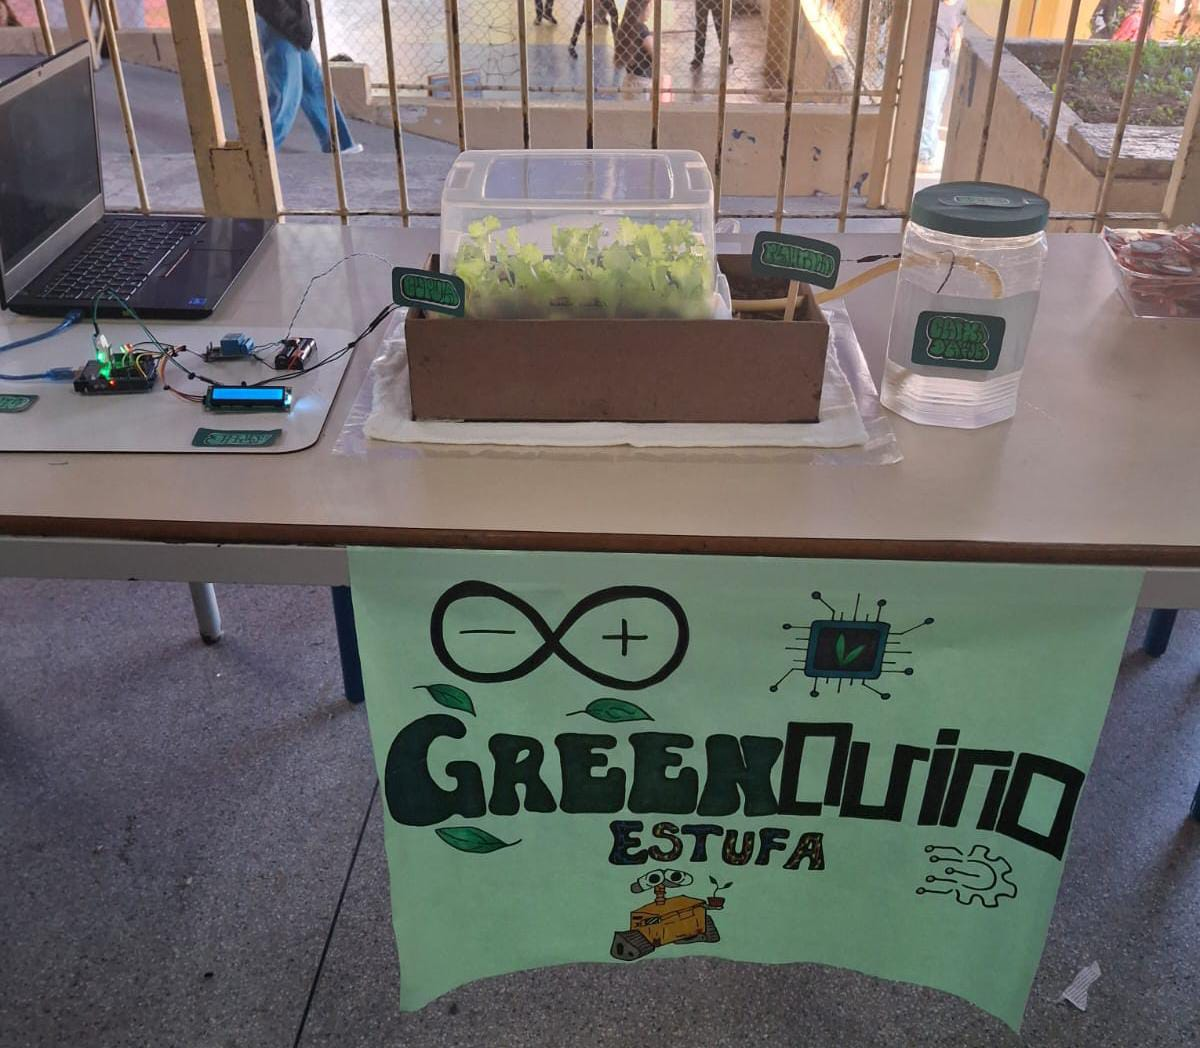
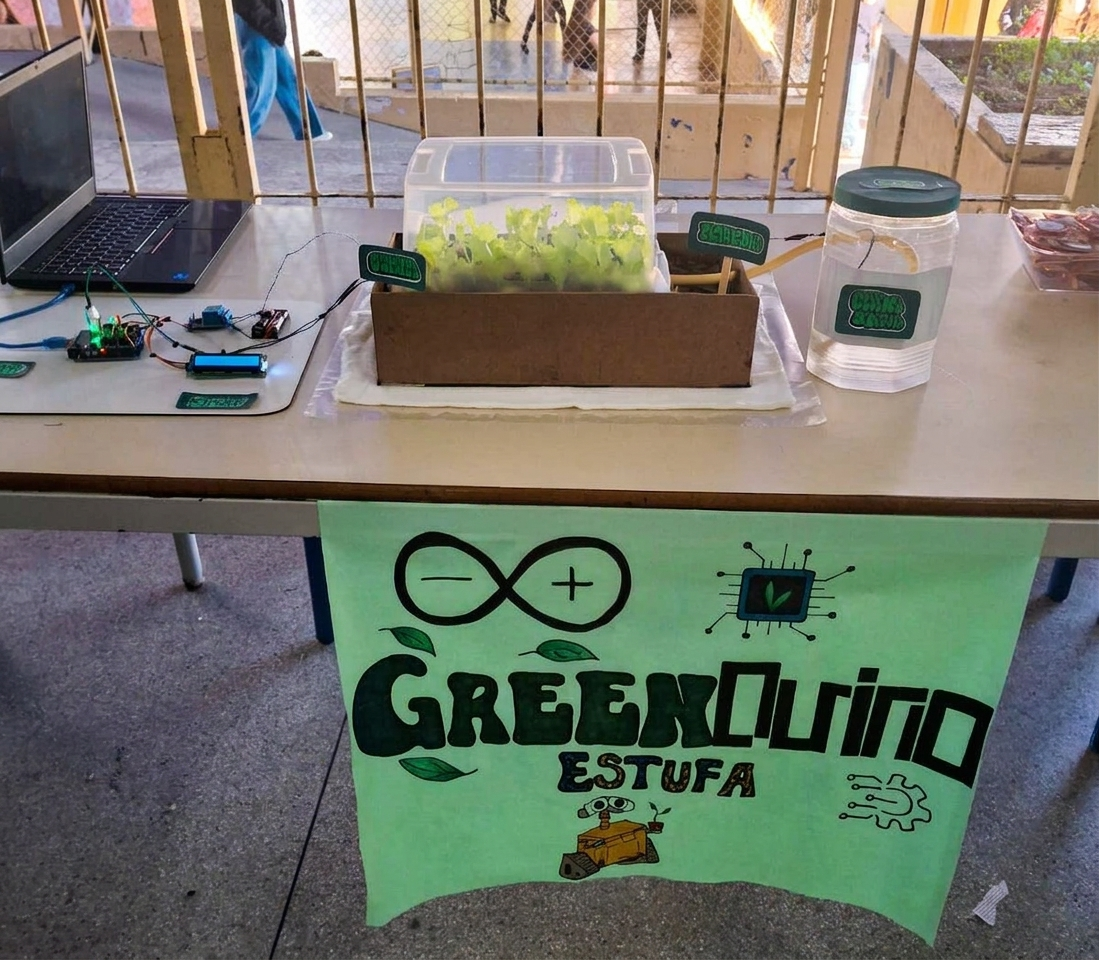
Troca das imagens da tela inicial

diff --git a/public/components/carousel/carousel.html b/public/components/carousel/carousel.html
@@ -16,10 +16,10 @@
                 <img src="/assets/images/plantas.jpeg" alt="Primeira Versão">
             </div>
             <div class="carousel-item">
-                <img src="/assets/images/bartotec.jpeg" alt="Segunda Versão">
+                <img src="/assets/images/horta.jpeg" alt="Horta">
             </div>
             <div class="carousel-item">
-                <img src="" alt="">
+                <img src="/assets/images/dashboard.png" alt="Dashboard">
             </div>
         </div>
 
